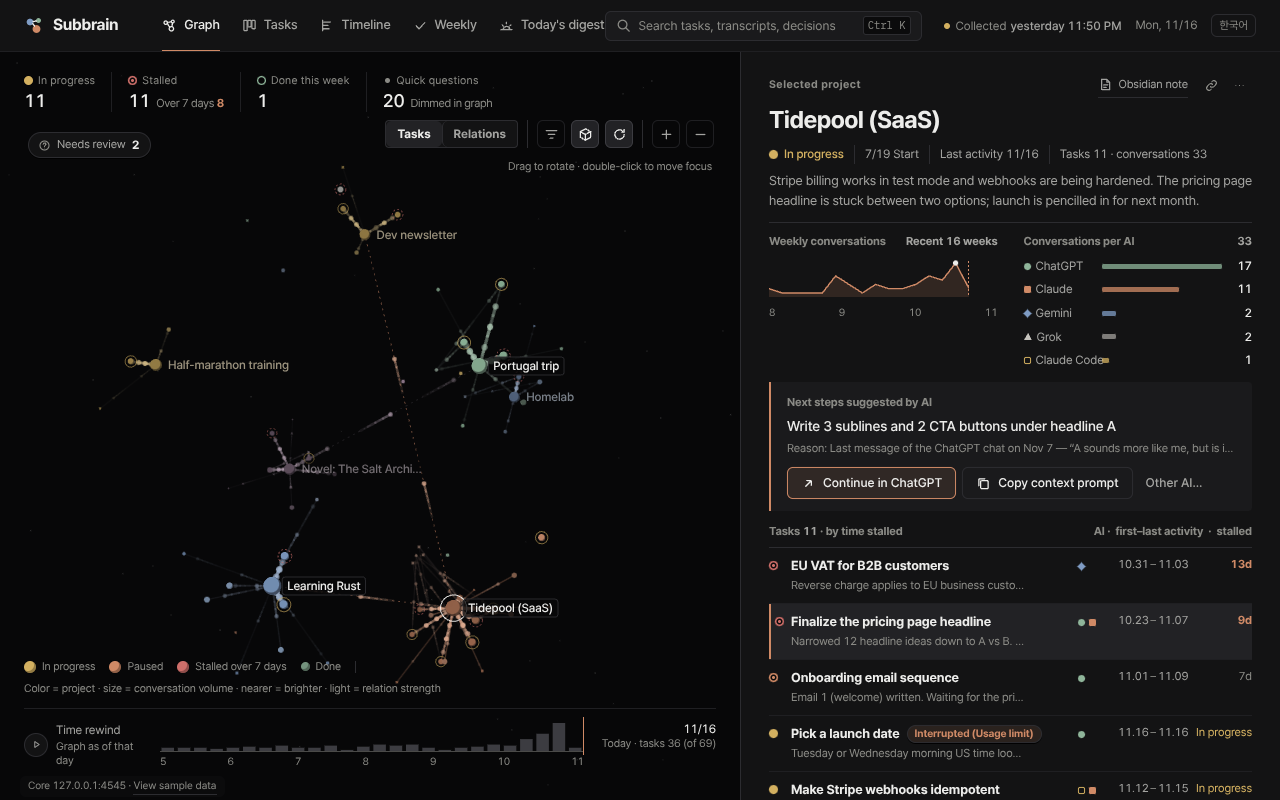
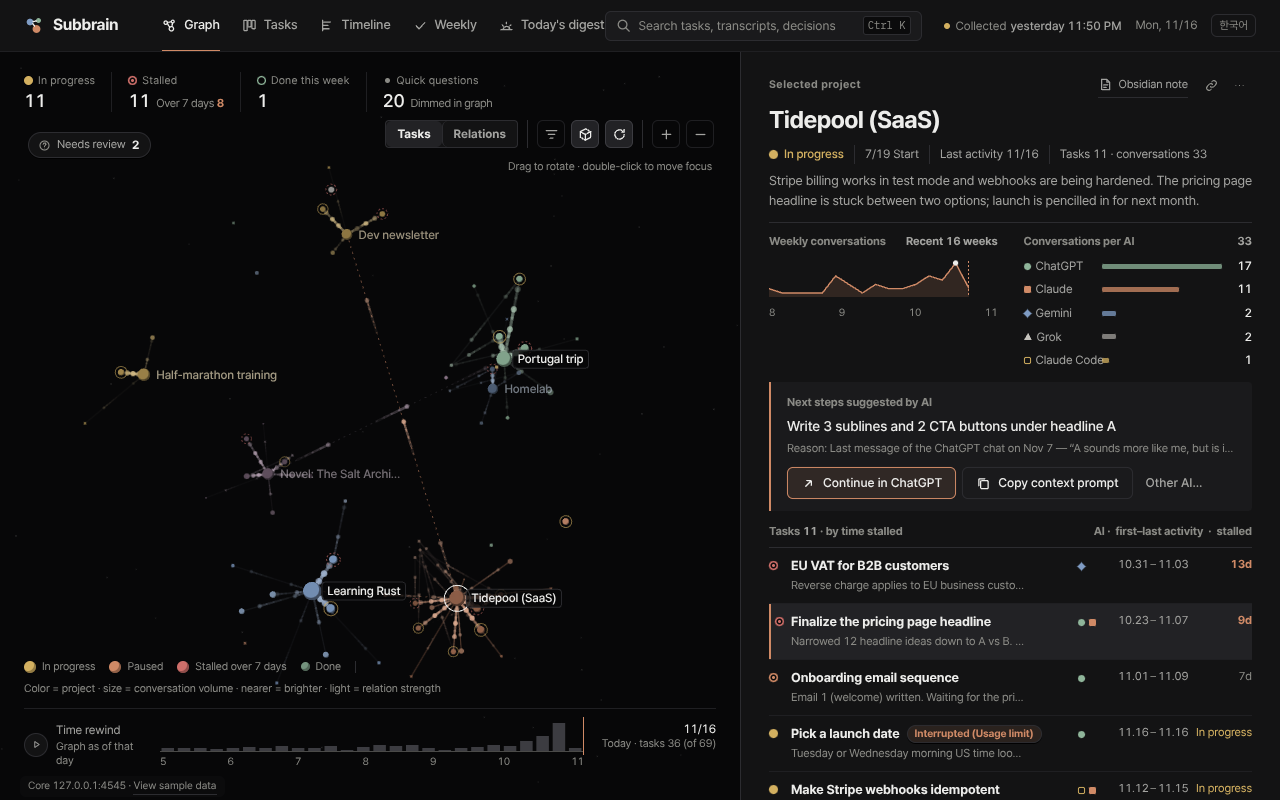
Fix npm run import/app argument passing; translate related-task status; richer last week in the English demo

diff --git a/packages/core/src/seed-data-en.ts b/packages/core/src/seed-data-en.ts
@@ -185,12 +185,12 @@ export function buildEnDataset(today: string): SeedDataset {
     // rust
     { id: 'task_rust_async', title: 'Async Rust with tokio', project: 'prj_rust', state: 'stall', ai: 'chatgpt', msgs: 18, first: at(14, '21:00'), last: at(11, '22:00'), topics: ['async'],
       summary: 'Understood futures are lazy. Stuck on why a spawned task needs \'static data.', next: 'Finish the tokio tutorial: spawning + JoinHandle' },
-    { id: 'task_rust_errors', title: 'Errors: anyhow vs thiserror', project: 'prj_rust', state: 'done', ai: 'claude', msgs: 12, first: at(10, '21:00'), last: at(9, '21:40'),
+    { id: 'task_rust_errors', title: 'Errors: anyhow vs thiserror', project: 'prj_rust', state: 'done', ai: 'claude', msgs: 12, first: at(5, '21:00'), last: at(4, '21:40'),
       summary: 'thiserror for library code, anyhow in main.rs.' },
     // trip
     { id: 'task_trip_trains', title: 'Lisbon → Porto train tickets', project: 'prj_portugal', state: 'run', ai: 'chatgpt', msgs: 10, first: at(2, '12:30'), last: at(2, '13:10'), topics: ['itinerary'],
       summary: 'Alfa Pendular (2h50) vs Intercidades (3h15). Tickets open 60 days ahead; early fares are much cheaper.', next: 'Book the morning Alfa Pendular on day 4' },
-    { id: 'task_trip_packing', title: 'Carry-on only packing list', project: 'prj_portugal', state: 'done', ai: 'gemini', msgs: 10, first: at(15, '08:00'), last: at(15, '08:40'),
+    { id: 'task_trip_packing', title: 'Carry-on only packing list', project: 'prj_portugal', state: 'done', ai: 'gemini', msgs: 10, first: at(3, '08:00'), last: at(3, '08:40'),
       summary: 'Fits in a 30 L bag. Rain jacket + one pair of shoes that survive cobblestones.' },
     { id: 'task_trip_food', title: 'Where to eat in Porto', project: 'prj_portugal', state: 'run', ai: 'grok', msgs: 8, first: at(1, '12:10'), last: at(1, '12:50'), topics: ['itinerary'],
       summary: 'Shortlist of 6 places; francesinha is mandatory at least once.', next: 'Book a table for the first night in Porto' },

diff --git a/web/src/screens/TaskDetail.tsx b/web/src/screens/TaskDetail.tsx
@@ -268,7 +268,7 @@ function DetailBody({ t, setT, reload }: { t: TTaskDetail; setT: (fn: (d: TTaskD
               <h2>{tt("함께 보면 좋은 것")} <span>{tt("같은 주제")}</span></h2>
               <ul className="open rel">
                 {t.related.similarTasks.map((s) => (
-                  <li key={s.id} onClick={() => nav(`/tasks/${encodeURIComponent(s.id)}`)}><b>↳</b><span>{s.projectName ? `${s.projectName} › ` : ''}{s.title} <small style={{ display: 'inline', marginLeft: 6 }}>{s.sourceAi ? `${aiLabel(s.sourceAi)} · ` : ''}{s.status}{s.completedAt ? ` ${dotDate(s.completedAt)}` : ''}</small></span></li>
+                  <li key={s.id} onClick={() => nav(`/tasks/${encodeURIComponent(s.id)}`)}><b>↳</b><span>{s.projectName ? `${s.projectName} › ` : ''}{s.title} <small style={{ display: 'inline', marginLeft: 6 }}>{s.sourceAi ? `${aiLabel(s.sourceAi)} · ` : ''}{tt(s.status)}{s.completedAt ? ` ${dotDate(s.completedAt)}` : ''}</small></span></li>
                 ))}
                 {t.related.wikiPages.map((w) => (
                   <li key={w.id} onClick={() => toast.show(tt("위키는 다음 단계(Phase 5)에서 열려요"))}><b>↳</b><span>{tt("위키 ›")} {w.title} <small style={{ display: 'inline', marginLeft: 6 }}>{w.reviewLabel}</small></span></li>

diff --git a/docs/SCREENSHOTS.md b/docs/SCREENSHOTS.md
@@ -8,7 +8,7 @@ Re-capture: `npm run demo`, then e.g. `google-chrome --headless=new --window-siz
 | ✅ `docs/screenshots/01-home-graph.png` | Graph home `/` | Project clusters, selected project panel with next step and "Continue in ChatGPT" |
 | ✅ `docs/screenshots/02-tasks.png` | Tasks `/board` | Tasks by status with next steps, outcome badges (moved to Claude Code, interrupted) |
 | ✅ `docs/screenshots/03-task-detail.png` | Task detail `/tasks/task_tp_pricing` | Why stalled, conversation flow, decisions, open questions, continue panel |
-| ✅ `docs/screenshots/04-weekly-review.png` | Weekly review `/week` | Finished / started / stalled / long-idle |
+| ✅ `docs/screenshots/04-weekly-review.png` | Weekly review `/week/<last Monday>` | Finished / started / stalled / long-idle |
 | ✅ `docs/screenshots/05-todays-digest.png` | Today's digest `/digest` | Yesterday's summary, "Continue today" top 3 |
 | `docs/screenshots/cleanup.png` | Digest → chat cleanup | Archive-only list, "no deletion" note |
 | `docs/screenshots/mcp.png` | Claude Desktop | An agent calling `toc_index` → `toc_task` and continuing work |
